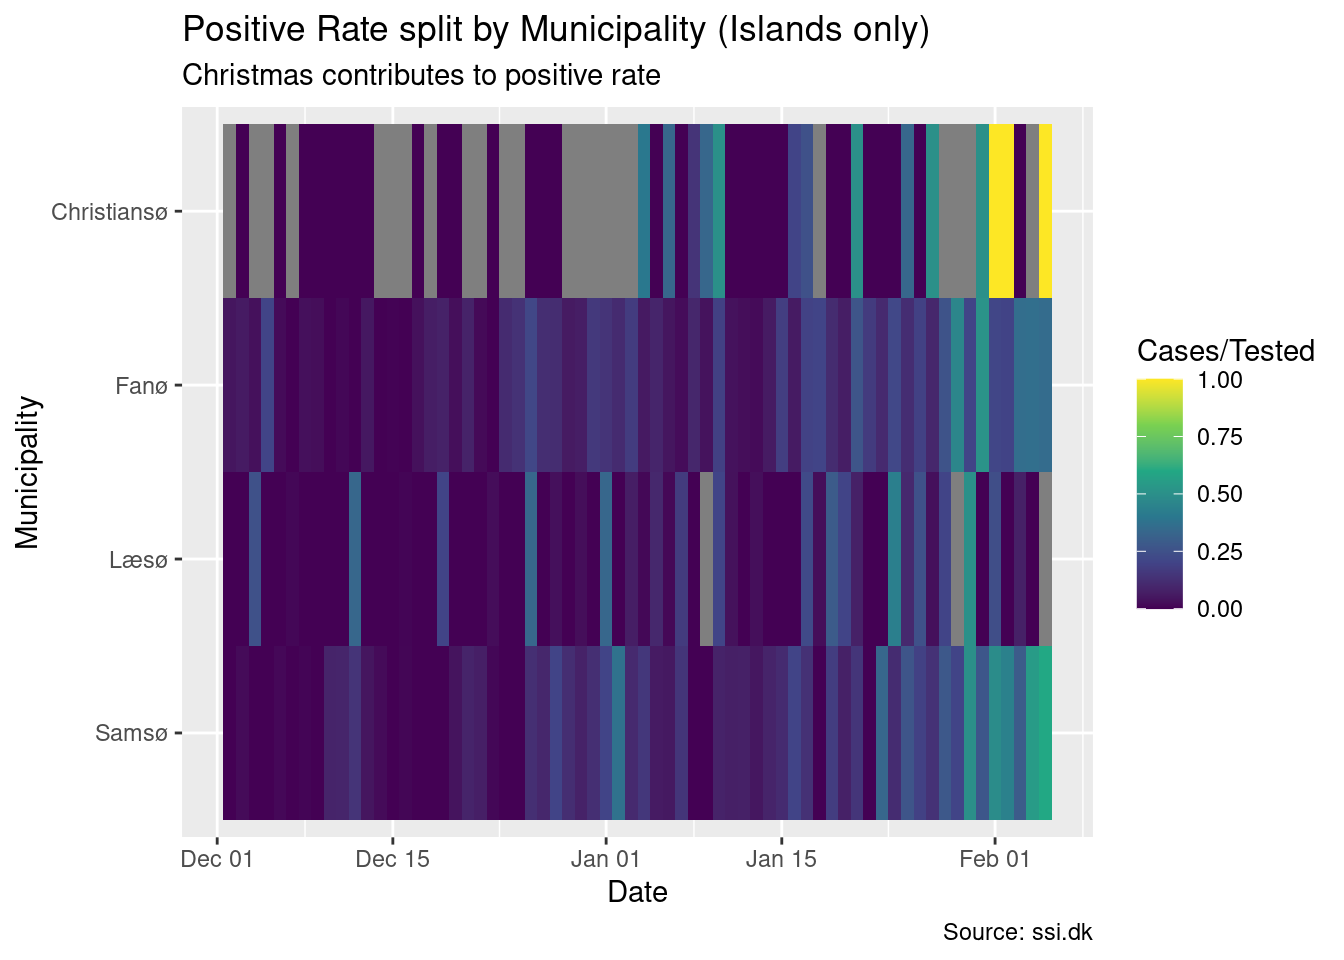
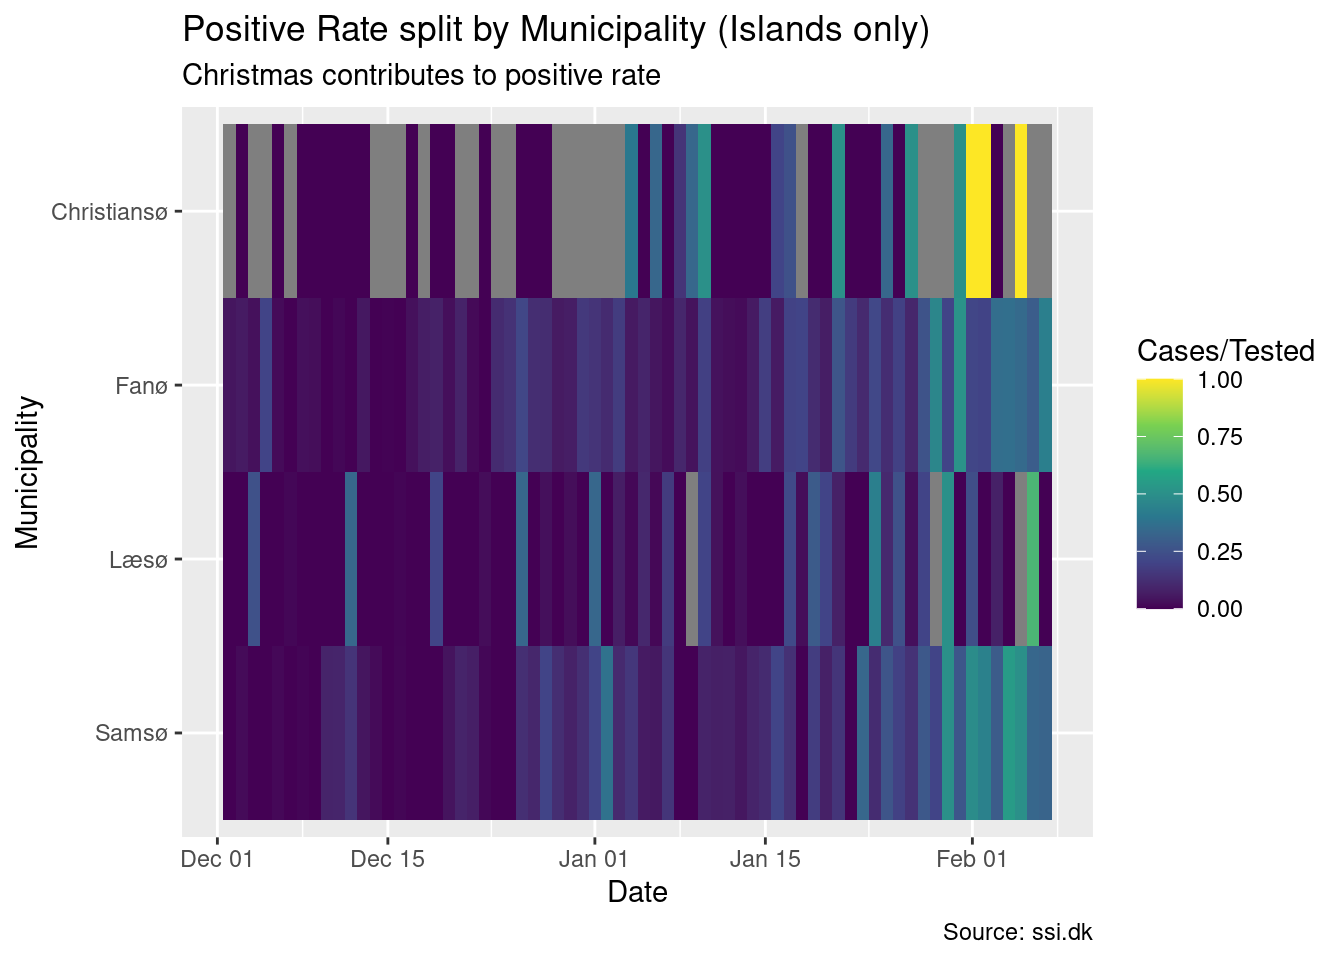
2022-02-09

diff --git a/docs/index.html b/docs/index.html
@@ -10,7 +10,7 @@
 
 
 
-<meta name="date" content="2022-02-07" />
+<meta name="date" content="2022-02-09" />
 
 <title>Covid-19 Stats for Denmark</title>
 
@@ -261,7 +261,7 @@ $(document).ready(function () {
 
 
 <h1 class="title toc-ignore">Covid-19 Stats for Denmark</h1>
-<h4 class="date">2022-02-07</h4>
+<h4 class="date">2022-02-09</h4>
 
 </div>
 
@@ -308,7 +308,7 @@ $(document).ready(function () {
 <pre class="r"><code>library(tidyverse)
 library(lubridate)</code></pre>
 <p>SSI’s data is in a zip file. We unpack this zip file into a directory of the general form <code>YYYY-MM-DD</code>. Lets set up a name for the current directory we want to grab data from</p>
-<pre class="r"><code>date &lt;- &quot;2022-02-07&quot;</code></pre>
+<pre class="r"><code>date &lt;- &quot;2022-02-09&quot;</code></pre>
 </div>
 <div id="ingesting-data" class="section level2">
 <h2>Ingesting data</h2>
@@ -350,7 +350,7 @@ library(lubridate)</code></pre>
                                       ))</code></pre>
 <pre><code>## ℹ Using &quot;&#39;,&#39;&quot; as decimal and &quot;&#39;.&#39;&quot; as grouping mark. Use `read_delim()` for more control.</code></pre>
 <pre class="r"><code>data</code></pre>
-<pre><code>## # A tibble: 6,765 × 9
+<pre><code>## # A tibble: 6,788 × 9
 ##    Region      Prøvetagningsdato Køn   `Bekræftede tilfælde`  Døde Indlæggelser
 ##    &lt;fct&gt;       &lt;date&gt;            &lt;fct&gt;                 &lt;dbl&gt; &lt;dbl&gt;        &lt;dbl&gt;
 ##  1 Sjælland    2020-02-26        M                         1     0            0
@@ -363,7 +363,7 @@ library(lubridate)</code></pre>
 ##  8 Hovedstaden 2020-03-03        F                         1     0            0
 ##  9 Hovedstaden 2020-03-03        M                         3     0            1
 ## 10 Hovedstaden 2020-03-04        M                         2     0            0
-## # … with 6,755 more rows, and 3 more variables: Kummuleret antal døde &lt;dbl&gt;,
+## # … with 6,778 more rows, and 3 more variables: Kummuleret antal døde &lt;dbl&gt;,
 ## #   Kummuleret antal bekræftede tilfælde &lt;dbl&gt;,
 ## #   Kummuleret antal indlæggelser &lt;dbl&gt;</code></pre>
 <p>We certainly don’t want to work with danish-named columns. Rather, we want small descriptive names which are easy to type. We send our dataset through a <code>rename</code> pass for this.</p>
@@ -378,7 +378,7 @@ library(lubridate)</code></pre>
 # Cut the cumulative columns away
 data &lt;- data %&gt;% select(region, date, gender, cases, deaths, hospitalizations)
 data</code></pre>
-<pre><code>## # A tibble: 6,765 × 6
+<pre><code>## # A tibble: 6,788 × 6
 ##    region      date       gender cases deaths hospitalizations
 ##    &lt;fct&gt;       &lt;date&gt;     &lt;fct&gt;  &lt;dbl&gt;  &lt;dbl&gt;            &lt;dbl&gt;
 ##  1 Sjælland    2020-02-26 M          1      0                0
@@ -391,7 +391,7 @@ data</code></pre>
 ##  8 Hovedstaden 2020-03-03 F          1      0                0
 ##  9 Hovedstaden 2020-03-03 M          3      0                1
 ## 10 Hovedstaden 2020-03-04 M          2      0                0
-## # … with 6,755 more rows</code></pre>
+## # … with 6,778 more rows</code></pre>
 <p>Provide a low cut-off. We are interested in the recent period with Omicron, rather than the full duration of Covid-19.</p>
 <pre class="r"><code>lo_cutoff &lt;- &#39;2021-09-01&#39;</code></pre>
 <p>The high end of that cutoff, we set to two days before the maximal date in our data set</p>
@@ -405,7 +405,7 @@ data</code></pre>
 # Put this into the summary
 summary &lt;- data
 summary</code></pre>
-<pre><code>## # A tibble: 1,570 × 6
+<pre><code>## # A tibble: 1,590 × 6
 ##    region      date       gender cases deaths hospitalizations
 ##    &lt;fct&gt;       &lt;date&gt;     &lt;fct&gt;  &lt;dbl&gt;  &lt;dbl&gt;            &lt;dbl&gt;
 ##  1 Hovedstaden 2021-09-01 F        210      0                7
@@ -418,7 +418,7 @@ summary</code></pre>
 ##  8 Nordjylland 2021-09-01 M         16      1                2
 ##  9 Sjælland    2021-09-01 M         37      0                3
 ## 10 Syddanmark  2021-09-01 M         41      0                1
-## # … with 1,560 more rows</code></pre>
+## # … with 1,580 more rows</code></pre>
 </div>
 <div id="weekly-key-figures-split-by-age" class="section level3">
 <h3>Weekly key figures split by age</h3>
@@ -509,15 +509,15 @@ data</code></pre>
 ##     lau1 name      `Bekræftede tilf… Incidens cases incidence tested tested_100k
 ##    &lt;dbl&gt; &lt;fct&gt;                 &lt;dbl&gt;    &lt;dbl&gt; &lt;dbl&gt;     &lt;dbl&gt;  &lt;dbl&gt;       &lt;dbl&gt;
 ##  1   411 &quot;&quot;                        0       NA     0         0     87       95604
-##  2   101 &quot;Københa…            269122    41967 20548      3204 653269      102000
-##  3   147 &quot;Frederi…             41018    39750  3431      3325 111299      108000
-##  4   151 &quot;Balleru…             19849    40357  1844      3749  49865      101000
-##  5   153 &quot;Brøndby&quot;             15627    43849  1018      2857  36010      101000
-##  6   155 &quot;Dragør&quot;               5729    39218   603      4128  14492       99206
-##  7   157 &quot;Gentoft…             29019    39253  2577      3486  75615      102000
-##  8   159 &quot;Gladsax…             27939    40405  2428      3511  71686      104000
-##  9   161 &quot;Glostru…              9785    41784   783      3344  24278      104000
-## 10   163 &quot;Herlev&quot;              12509    43461   930      3231  29663      103000
+##  2   101 &quot;Københa…            277402    43259 21029      3279 653918      102000
+##  3   147 &quot;Frederi…             42202    40897  3593      3482 111419      108000
+##  4   151 &quot;Balleru…             20366    41409  1808      3676  49897      101000
+##  5   153 &quot;Brøndby&quot;             15901    44618   994      2789  36039      101000
+##  6   155 &quot;Dragør&quot;               5897    40368   599      4100  14497       99240
+##  7   157 &quot;Gentoft…             29836    40358  2486      3363  75711      102000
+##  8   159 &quot;Gladsax…             28860    41737  2345      3391  71778      104000
+##  9   161 &quot;Glostru…              9999    42698   748      3194  24299      104000
+## 10   163 &quot;Herlev&quot;              12816    44528   886      3078  29689      103000
 ## # … with 89 more rows, and 3 more variables: tested_1w &lt;dbl&gt;,
 ## #   tested_100k_1w &lt;dbl&gt;, population &lt;dbl&gt;</code></pre>
 <pre class="r"><code>muncipalities &lt;- data</code></pre>
@@ -638,7 +638,7 @@ p + geom_point(aes(color=region), size=.5) +
          subtitle = &quot;Copenhagen-general area (Hovedstaden) contributes most of the noise&quot;,
          caption = &quot;Source: ssi.dk&quot;,
          x = &quot;Date&quot;,
-         y = &quot;Detected Cases&quot;)</code></pre>
+         y = &quot;New Hospitalizations&quot;)</code></pre>
 <p><img src="index_files/figure-html/regional-hospitalizations-1.png" width="672" /></p>
 </div>
 </div>
@@ -688,21 +688,21 @@ muncipalities$incidence_type &lt;- ifelse(muncipalities$incidence_z &lt; 0, &quo
 muncipalities$rate_z &lt;- round(muncipalities$rate - mean(muncipalities$rate), 5)
 muncipalities$rate_type &lt;- ifelse(muncipalities$rate_z &lt; 0, &quot;Below mean&quot;, &quot;Above mean&quot;)
 muncipalities$rate</code></pre>
-<pre><code>##  [1] 0.0000000 0.2902506 0.3032526 0.2707783 0.2522299 0.2982196 0.3020394
-##  [8] 0.2747850 0.2656038 0.2510799 0.2577287 0.2739298 0.2489718 0.3231044
-## [15] 0.2748046 0.2460053 0.2788492 0.2701937 0.3289430 0.3241957 0.3029975
-## [22] 0.3019833 0.2913011 0.2973169 0.2989812 0.2927572 0.2866698 0.2783180
-## [29] 0.2811772 0.2973506 0.2778354 0.2879764 0.2830870 0.2448000 0.2859428
-## [36] 0.2767375 0.3404028 0.2949474 0.2917805 0.2739516 0.3064867 0.2688465
-## [43] 0.2216017 0.2864748 0.2607466 0.2766367 0.2579988 0.3115468 0.3301465
-## [50] 0.3365808 0.2924833 0.2948221 0.2737694 0.2995148 0.3349087 0.2528678
-## [57] 0.1905911 0.3256520 0.3043478 0.2532242 0.2859072 0.3460000 0.2960993
-## [64] 0.3715869 0.3818848 0.2818888 0.3003580 0.3359802 0.3425914 0.3022909
-## [71] 0.3684416 0.3238748 0.3392084 0.2971413 0.3745998 0.3537764 0.3546435
-## [78] 0.3255463 0.3632085 0.3680985 0.4045977 0.3710517 0.3647865 0.3703025
-## [85] 0.3735201 0.3504262 0.3363112 0.3354335 0.3301127 0.3524310 0.3618727
-## [92] 0.3257914 0.3482820 0.1230769 0.3543812 0.3450072 0.3146864 0.3167664
-## [99] 0.3488074</code></pre>
+<pre><code>##  [1] 0.0000000 0.2997762 0.3164245 0.2713085 0.2537656 0.2971230 0.2941316
+##  [8] 0.2751379 0.2578421 0.2504948 0.2599301 0.2609095 0.2513021 0.3244787
+## [15] 0.2806365 0.2425517 0.2843121 0.2662370 0.3126441 0.3234884 0.2997977
+## [22] 0.2971214 0.2950710 0.2949062 0.3031401 0.2933252 0.2815581 0.2784314
+## [29] 0.2852695 0.2904178 0.2904766 0.2956047 0.2860144 0.2488404 0.2915416
+## [36] 0.2847376 0.3545191 0.3111593 0.3042589 0.2978790 0.3241304 0.2767355
+## [43] 0.2312102 0.2904035 0.2614616 0.2699225 0.2741268 0.3327842 0.3560817
+## [50] 0.3655085 0.3135487 0.3059779 0.2890400 0.3069376 0.3358896 0.3094360
+## [57] 0.2127907 0.3431508 0.3325586 0.2753677 0.3145083 0.3610870 0.2780952
+## [64] 0.3832857 0.3940226 0.2961059 0.3228927 0.3521302 0.3489662 0.3318037
+## [71] 0.3797436 0.3323275 0.3499573 0.3146375 0.3839502 0.3753195 0.3597504
+## [78] 0.3261079 0.3820476 0.3751632 0.4358354 0.3754078 0.3730038 0.3677245
+## [85] 0.3815859 0.3648106 0.3498452 0.3542660 0.3386933 0.3649006 0.3731700
+## [92] 0.3270399 0.3682258 0.1282051 0.3787419 0.3655640 0.3352958 0.3406843
+## [99] 0.3649872</code></pre>
 <pre class="r"><code>ggplot(muncipalities %&gt;% mutate(name = fct_reorder(name, rate)), aes(x=name, y=rate)) +
   geom_bar(stat=&#39;identity&#39;, aes(fill=rate_type), width=.5)  +
   scale_colour_brewer(palette=&quot;Set2&quot;) +
@@ -730,7 +730,7 @@ muncipalities$rate</code></pre>
 popcount &lt;- read_data_2(&quot;./data/DS/2022121185617360647690FOLK1AM68563293012.csv&quot;)</code></pre>
 <pre><code>## ℹ Using &quot;&#39;,&#39;&quot; as decimal and &quot;&#39;.&#39;&quot; as grouping mark. Use `read_delim()` for more control.</code></pre>
 <pre><code>## Rows: 103 Columns: 4</code></pre>
-<pre><code>## ── Column specification ────────────────────────────────────────────────────────
+<pre><code>## ── Column specification ───────────────────────────────────────────────────────────────────────────────────────────────────────────────────────────────────────────────
 ## Delimiter: &quot;;&quot;
 ## chr (3): X1, X2, X3
 ## dbl (1): X4</code></pre>
@@ -762,15 +762,15 @@ popcount</code></pre>
 ##    name            incidence popcount
 ##    &lt;chr&gt;               &lt;dbl&gt;    &lt;dbl&gt;
 ##  1 &quot;&quot;                      0       NA
-##  2 &quot;København&quot;          3204   644987
-##  3 &quot;Frederiksberg&quot;      3325   103963
-##  4 &quot;Ballerup&quot;           3749    49228
-##  5 &quot;Brøndby&quot;            2857    35535
-##  6 &quot;Dragør&quot;             4128    14602
-##  7 &quot;Gentofte&quot;           3486    74154
-##  8 &quot;Gladsaxe&quot;           3511    69321
-##  9 &quot;Glostrup&quot;           3344    23519
-## 10 &quot;Herlev&quot;             3231    28861
+##  2 &quot;København&quot;          3279   644987
+##  3 &quot;Frederiksberg&quot;      3482   103963
+##  4 &quot;Ballerup&quot;           3676    49228
+##  5 &quot;Brøndby&quot;            2789    35535
+##  6 &quot;Dragør&quot;             4100    14602
+##  7 &quot;Gentofte&quot;           3363    74154
+##  8 &quot;Gladsaxe&quot;           3391    69321
+##  9 &quot;Glostrup&quot;           3194    23519
+## 10 &quot;Herlev&quot;             3078    28861
 ## # … with 89 more rows</code></pre>
 <p>Now, test correlation via Pearson:</p>
 <pre class="r"><code>plot(muncipalities$incidence, muncipalities$popcount)</code></pre>
@@ -780,13 +780,13 @@ popcount</code></pre>
 ##  Pearson&#39;s product-moment correlation
 ## 
 ## data:  muncipalities$incidence and muncipalities$popcount
-## t = -0.3733, df = 92, p-value = 0.7098
+## t = -0.22922, df = 92, p-value = 0.8192
 ## alternative hypothesis: true correlation is not equal to 0
 ## 95 percent confidence interval:
-##  -0.2396186  0.1650276
+##  -0.2254167  0.1795954
 ## sample estimates:
 ##         cor 
-## -0.03888974</code></pre>
+## -0.02389089</code></pre>
 <p>Clearly, this argues there are no strong connection between population count, and the incidence in a given muncipality.</p>
 <p>Analyzing the rate shows there’s a connection between it and incidence, but this is more expected:</p>
 <pre class="r"><code>pairs(muncipalities %&gt;% select(incidence,popcount,rate))</code></pre>
@@ -796,17 +796,17 @@ popcount</code></pre>
 ##  Pearson&#39;s product-moment correlation
 ## 
 ## data:  muncipalities$incidence and muncipalities$rate
-## t = 14.53, df = 97, p-value &lt; 2.2e-16
+## t = 15.142, df = 97, p-value &lt; 2.2e-16
 ## alternative hypothesis: true correlation is not equal to 0
 ## 95 percent confidence interval:
-##  0.7534768 0.8811807
+##  0.7679571 0.8886364
 ## sample estimates:
 ##       cor 
-## 0.8277628</code></pre>
+## 0.8382822</code></pre>
 <p>Summarize:</p>
 <pre class="r"><code>summary(muncipalities$rate)</code></pre>
 <pre><code>##    Min. 1st Qu.  Median    Mean 3rd Qu.    Max. 
-##  0.0000  0.2773  0.2995  0.3024  0.3364  0.4046</code></pre>
+##  0.0000  0.2845  0.3112  0.3118  0.3532  0.4358</code></pre>
 <pre class="r"><code>d &lt;- density(muncipalities$rate)
 plot(d)</code></pre>
 <p><img src="index_files/figure-html/muncipality-summary-1.png" width="672" /></p>

diff --git a/docs/core.html b/docs/core.html
@@ -325,7 +325,7 @@ rt_cases</code></pre>
 <pre class="r"><code>m_cases_timeseries_path &lt;- sprintf(&quot;%s/Municipality_cases_time_series.csv&quot;, path)
 m_cases_timeseries &lt;- readr::read_csv2(m_cases_timeseries_path)
 m_cases_timeseries</code></pre>
-<pre><code>## # A tibble: 712 × 101
+<pre><code>## # A tibble: 714 × 101
 ##    SampleDate Roskilde Copenhagen Aarhus Frederiksberg Kalundborg Middelfart
 ##    &lt;date&gt;        &lt;dbl&gt;      &lt;dbl&gt;  &lt;dbl&gt;         &lt;dbl&gt;      &lt;dbl&gt;      &lt;dbl&gt;
 ##  1 2020-02-26        1          0      0             0          0          0
@@ -338,7 +338,7 @@ m_cases_timeseries</code></pre>
 ##  8 2020-03-05        0          2      0             2          0          0
 ##  9 2020-03-06        0          0      0             0          0          0
 ## 10 2020-03-07        0          1      1             1          0          0
-## # … with 702 more rows, and 94 more variables: Gentofte &lt;dbl&gt;, Solrød &lt;dbl&gt;,
+## # … with 704 more rows, and 94 more variables: Gentofte &lt;dbl&gt;, Solrød &lt;dbl&gt;,
 ## #   Allerød &lt;dbl&gt;, Dragør &lt;dbl&gt;, Helsingør &lt;dbl&gt;, Hillerød &lt;dbl&gt;,
 ## #   Rudersdal &lt;dbl&gt;, Næstved &lt;dbl&gt;, Aalborg &lt;dbl&gt;, Vallensbæk &lt;dbl&gt;,
 ## #   Esbjerg &lt;dbl&gt;, Favrskov &lt;dbl&gt;, Frederikssund &lt;dbl&gt;, Furesø &lt;dbl&gt;,
@@ -351,7 +351,7 @@ m_cases_timeseries</code></pre>
   rename(date = `SampleDate`)
 
 m_cases_timeseries</code></pre>
-<pre><code>## # A tibble: 71,200 × 3
+<pre><code>## # A tibble: 71,400 × 3
 ##    date       Municipality  Cases
 ##    &lt;date&gt;     &lt;chr&gt;         &lt;dbl&gt;
 ##  1 2020-02-26 Roskilde          1
@@ -364,7 +364,7 @@ m_cases_timeseries</code></pre>
 ##  8 2020-02-26 Solrød            0
 ##  9 2020-02-26 Allerød           0
 ## 10 2020-02-26 Dragør            0
-## # … with 71,190 more rows</code></pre>
+## # … with 71,390 more rows</code></pre>
 <p>We use the same strategy for the tests:</p>
 <pre class="r"><code>m_tested_timeseries_path &lt;- sprintf(&quot;%s/Municipality_tested_persons_time_series.csv&quot;, path)
 m_tested_timeseries &lt;- readr::read_csv2(m_tested_timeseries_path)
@@ -375,7 +375,7 @@ m_tested_timeseries &lt;- m_tested_timeseries %&gt;%
 <pre class="r"><code>municipality &lt;- m_cases_timeseries %&gt;% left_join(m_tested_timeseries, by = c(&quot;date&quot;, &quot;Municipality&quot;))
 municipality &lt;- municipality %&gt;% mutate(Municipality = factor(Municipality))
 municipality</code></pre>
-<pre><code>## # A tibble: 71,200 × 4
+<pre><code>## # A tibble: 71,400 × 4
 ##    date       Municipality  Cases Tested
 ##    &lt;date&gt;     &lt;fct&gt;         &lt;dbl&gt;  &lt;dbl&gt;
 ##  1 2020-02-26 Roskilde          1      3
@@ -388,7 +388,7 @@ municipality</code></pre>
 ##  8 2020-02-26 Solrød            0      0
 ##  9 2020-02-26 Allerød           0      0
 ## 10 2020-02-26 Dragør            0      0
-## # … with 71,190 more rows</code></pre>
+## # … with 71,390 more rows</code></pre>
 </div>
 </div>
 <div id="plots-of-interest" class="section level2">
